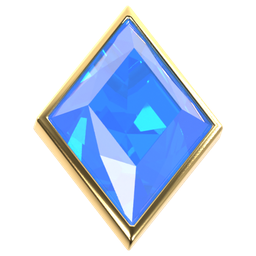
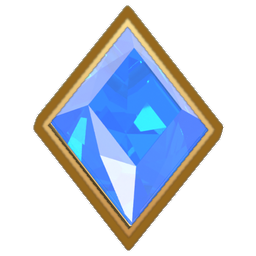
The blue and orange gems get their gold rim closed, and the price gets read
Three things the testers saw, found by looking rather than by guessing.

The gems. I had blamed the atlas and I was wrong twice: the fault is in the two images. Every gem wears a gold
bezel around its silhouette, and on the blue diamond and the orange triangle that bezel stops partway: the
facets end bare against the background, which reads exactly as a piece cut off or a second colour pasted
alongside. The other four are closed all the way round, which is why only those two were ever reported. The rim
is rebuilt from the silhouette at the thickness measured on the healthy gems, ten pixels, with the same gradient
they use: light at the top, darker at the bottom, with a deeper line on the outer edge.

The screen with Buy on it. It is the Get-an-item popup, and it ran from 20% to 80% of the height while stacking
a banner, an illustration, a description, the buy row, four free sources and a close button. The buy row came
out as a strip a few dozen pixels tall, and it is the row people open the popup for. The popup now runs 8% to
92% and the buy row takes its share of what that gained. On the pack cards the price button goes from 17% of
the card to 22%, at heading size rather than body size.

The bomb countdown. The badge covered 64% of the cell and the digit inside it was handed to Unity's best-fit,
which only ever shrinks. A bomb counting down is the most urgent thing on the board. The badge now covers 84%
[…]

Changed region(s): [[0.125, 0.0, 0.875, 1.0]]

diff --git a/unity/CrushRoyale/Assets/Scripts/UI/LoadoutPicker.cs b/unity/CrushRoyale/Assets/Scripts/UI/LoadoutPicker.cs
@@ -254,7 +254,11 @@ namespace CrushRoyale.Game.UI
             GameRoot game = GameRoot.Instance;
             Localization loc = game.Loc;
             UIRoot ui = game.UI;
-            RectTransform box = ui.Popup(0.2f, 0.8f);
+            // Haut et large. Cette fenêtre empile un bandeau, une illustration, une description, la ligne
+            // d'achat, quatre sources gratuites et un bouton de fermeture : sur 60 % de la hauteur, la ligne qui
+            // porte le prix se réduisait à un bandeau de quelques dizaines de pixels, et c'est elle qu'on vient
+            // chercher. Elle va de 8 % à 92 %, et la ligne d'achat prend sa part de ce qui a été gagné.
+            RectTransform box = ui.Popup(0.08f, 0.92f);
 
             RectTransform ribbon = UIFactory.Anchor(UIFactory.Rect("Ribbon", box), -0.03f, 0.88f, 1.03f, 1.03f);
             UiKit.Ribbon(ribbon);
@@ -281,9 +285,9 @@ namespace CrushRoyale.Game.UI
             }
 
             // Buy now (always-available single items).
-            Text buyTitle = UIFactory.Label(box, loc.T("get.buyNow"), Theme.BodySize, Theme.Gold, TextAnchor.MiddleLeft, FontStyle.Bold);
-            UIFactory.Anchor(buyTitle.rectTransform, 0.07f, 0.63f, 0.93f, 0.69f);
-            RectTransform buyRow = UIFactory.Anchor(UIFactory.Rect("Buy", box), 0.07f, 0.53f, 0.93f, 0.625f);
+            Text buyTitle = UIFactory.Label(box, loc.T("get.buyNow"), Theme.HeaderSize - 2, Theme.Gold, TextAnchor.MiddleLeft, FontStyle.Bold);
+            UIFactory.Anchor(buyTitle.rectTransform, 0.07f, 0.655f, 0.93f, 0.715f);
+            RectTransform buyRow = UIFactory.Anchor(UIFactory.Rect("Buy", box), 0.07f, 0.525f, 0.93f, 0.645f);
             HorizontalLayoutGroup buyLayout = buyRow.gameObject.AddComponent<HorizontalLayoutGroup>();
             buyLayout.spacing = 20;
             buyLayout.childControlWidth = buyLayout.childControlHeight = true;
@@ -291,8 +295,8 @@ namespace CrushRoyale.Game.UI
             Text pending = UIFactory.Label(buyRow, loc.T("common.loading"), Theme.SmallSize, Theme.TextMuted);
 
             // Free sources.
-            Text freeTitle = UIFactory.Label(box, loc.T("get.free"), Theme.BodySize, Theme.Crystal, TextAnchor.MiddleLeft, FontStyle.Bold);
-            UIFactory.Anchor(freeTitle.rectTransform, 0.07f, 0.46f, 0.93f, 0.52f);
+            Text freeTitle = UIFactory.Label(box, loc.T("get.free"), Theme.HeaderSize - 2, Theme.Crystal, TextAnchor.MiddleLeft, FontStyle.Bold);
+            UIFactory.Anchor(freeTitle.rectTransform, 0.07f, 0.455f, 0.93f, 0.515f);
             RectTransform sources = UIFactory.Anchor(UIFactory.Rect("Sources", box), 0.07f, 0.13f, 0.93f, 0.455f);
             VerticalLayoutGroup sourceLayout = sources.gameObject.AddComponent<VerticalLayoutGroup>();
             sourceLayout.spacing = 12;

diff --git a/unity/CrushRoyale/Assets/Scripts/Gameplay/PieceView.cs b/unity/CrushRoyale/Assets/Scripts/Gameplay/PieceView.cs
@@ -341,13 +341,20 @@ namespace CrushRoyale.Game.Gameplay
                 _bombBadge = UIFactory.Icon(Rect, ArtLibrary.BombBadge() ?? ProceduralSprites.Circle(), Color.white, 0);
                 _bombBadge.raycastTarget = false;
                 _bombBadge.preserveAspect = true;
-                UIFactory.Anchor(_bombBadge.rectTransform, 0.38f, 0.38f, 1.02f, 1.02f);
-                _countdown = UIFactory.Label(_bombBadge.transform, string.Empty, Mathf.RoundToInt(Rect.sizeDelta.y * 0.34f), Color.white, TextAnchor.MiddleCenter, FontStyle.Bold);
+                // Une bombe qui compte les coups est l'information la plus urgente du plateau, et elle tenait
+                // dans un pastille de 64 % de la case avec un chiffre que l'ajustement automatique rétrécissait
+                // encore. Elle occupe maintenant 84 % de la case, et le chiffre a sa taille complète.
+                UIFactory.Anchor(_bombBadge.rectTransform, 0.2f, 0.2f, 1.04f, 1.04f);
+                _countdown = UIFactory.Label(_bombBadge.transform, string.Empty, Mathf.RoundToInt(Rect.sizeDelta.y * 0.46f), Color.white, TextAnchor.MiddleCenter, FontStyle.Bold);
                 _countdown.raycastTarget = false;
-                UIFactory.Anchor(_countdown.rectTransform, 0f, -0.05f, 0.86f, 0.8f);
+                // Pas d'ajustement automatique : il ne sait que réduire, et c'est exactement ce qu'on ne veut pas.
+                _countdown.resizeTextForBestFit = false;
+                _countdown.horizontalOverflow = HorizontalWrapMode.Overflow;
+                _countdown.verticalOverflow = VerticalWrapMode.Overflow;
+                UIFactory.Anchor(_countdown.rectTransform, 0.04f, 0f, 0.92f, 0.86f);
                 Outline outline = _countdown.gameObject.AddComponent<Outline>();
-                outline.effectColor = new Color(0f, 0f, 0f, 0.9f);
-                outline.effectDistance = new Vector2(2f, -2f);
+                outline.effectColor = new Color(0f, 0f, 0f, 0.95f);
+                outline.effectDistance = new Vector2(3f, -3f);
             }
             _bombBadge.gameObject.SetActive(true);
             _countdown.gameObject.SetActive(true);

diff --git a/unity/CrushRoyale/Assets/Scripts/Screens/ShopScreen.cs b/unity/CrushRoyale/Assets/Scripts/Screens/ShopScreen.cs
@@ -328,8 +328,10 @@ namespace CrushRoyale.Game.Screens
                     Badge(card.transform, Loc.T("shop.popular"), Theme.Danger, -0.04f, 0.86f, 0.62f, 1.02f);
                 }
                 string price = Game.Iap.LocalizedPrice(item.Sku) ?? (item.PriceCents / 100m).ToString("0.00") + " €";
-                Button buy = UIFactory.Button(card.transform, price, () => _ = BuyRealMoneyAsync(item.Sku), Theme.Success, Theme.BodySize);
-                UIFactory.Anchor(buy.GetComponent<RectTransform>(), 0.08f, 0.04f, 0.92f, 0.21f);
+                // Le prix est ce qu'on vient lire sur une carte de pack : il a droit au quart de sa hauteur et à
+                // la taille d'un titre, pas au corps de texte.
+                Button buy = UIFactory.Button(card.transform, price, () => _ = BuyRealMoneyAsync(item.Sku), Theme.Success, Theme.HeaderSize - 2);
+                UIFactory.Anchor(buy.GetComponent<RectTransform>(), 0.06f, 0.035f, 0.94f, 0.26f);
             });
         }
 

diff --git a/unity/CrushRoyale/Assets/Editor/OfflineHarness.cs b/unity/CrushRoyale/Assets/Editor/OfflineHarness.cs
@@ -361,6 +361,8 @@ namespace CrushRoyale.EditorTools
                 new ScreenCase("11-Pvp", typeof(PvpScreen)),
                 new ScreenCase("12-PvpResult", typeof(PvpResultScreen), PvpResult),
                 new ScreenCase("13-Shop", typeof(ShopScreen), _ => 0),
+                new ScreenCase("13b-Shop-Orbes", typeof(ShopScreen), _ => 1),
+                new ScreenCase("13c-Shop-Coins", typeof(ShopScreen), _ => 2),
                 new ScreenCase("14-Shop-Offline", typeof(ShopScreen), _ => 0, withProfile: false),
                 new ScreenCase("15-Guild", typeof(GuildScreen)),
                 new ScreenCase("16-Friends", typeof(FriendsScreen)),
